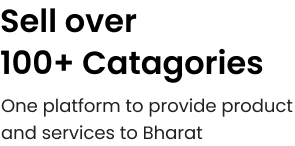
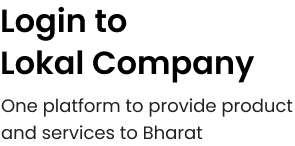
changed login and signup images and text

Changed region(s): [[0.0, 0.3288, 0.9153, 0.5753], [0.0, 0.0274, 0.4881, 0.3014]]

diff --git a/lib/screens/signUp/signup_screen.dart b/lib/screens/signUp/signup_screen.dart
@@ -1,9 +1,11 @@
 import 'dart:convert';
 
+import 'package:flutter/gestures.dart';
 import 'package:flutter/material.dart';
 import 'package:google_fonts/google_fonts.dart';
 import 'package:lokal/Widgets/UikTextField/UikTextField.dart';
 import 'package:lokal/pages/UikBottomNavigationBar.dart';
+import 'package:lokal/screens/Onboarding/NewOnboardingScreen.dart';
 import 'package:lokal/utils/network/ApiRepository.dart';
 import 'package:lokal/utils/network/ApiRequestBody.dart';
 import 'package:lokal/utils/storage/user_data_handler.dart';
@@ -63,9 +65,32 @@ class _SignupScreenState extends State<SignupScreen> {
                     top: 62.0,
                   ),
                   child: Image.asset(
-                    "assets/images/Login1.png",
+                    "assets/images/Signin1.png",
                     fit: BoxFit.cover,
                   ),
+                ),
+                Padding(
+                  padding: const EdgeInsets.only(left: 292),
+                  child: TextButton(
+                    onPressed: () {
+                      Navigator.push(
+                        context,
+                        MaterialPageRoute(
+                          builder: (context) => NewOnboardingScreen(),
+                        ),
+                      );
+                    },
+                    child: const Text(
+                      LOGIN,
+                      style: TextStyle(
+                          color: Color(0XFF3F51B5),
+                          fontSize: 14,
+                          fontWeight: FontWeight.w500),
+                    ),
+                  ),
+                ),
+                const SizedBox(
+                  height: DIMEN_35,
                 ),
                 Expanded(
                   child: Container(
@@ -226,6 +251,57 @@ class _SignupScreenState extends State<SignupScreen> {
 
                               setState(() {});
                             },
+                          ),
+                        ),
+                        const SizedBox(
+                          height: DIMEN_15,
+                        ),
+                        Padding(
+                          padding: const EdgeInsets.only(left: 10, right: 10),
+                          child: Text.rich(
+                            TextSpan(
+                              children: [
+                                TextSpan(
+                                  text: "By continuing I agree with ",
+                                  style: TextStyle(
+                                    color: Color(0xFF9E9E9E),
+                                  ),
+                                ),
+                                TextSpan(
+                                  text: "Lokal’s Privacy Policy",
+                                  style: TextStyle(
+                                    color:
+                                        Colors.black, // Make the link text blue
+                                    decoration: TextDecoration
+                                        .underline, // Add underline to the link text
+                                  ),
+                                  recognizer: TapGestureRecognizer()
+                                    ..onTap = () {
+                                      UiUtils.launchURL(PRIVACY_POLICY_URL);
+                                    },
+                                ),
+                                TextSpan(
+                                  text: " and ",
+                                  style: TextStyle(
+                                    color: Color(0xFF9E9E9E),
+                                  ),
+                                ),
+                                TextSpan(
+                                  text: "Terms of Use",
+                                  style: TextStyle(
+                                    color:
+                                        Colors.black, // Make the link text blue
+                                    decoration: TextDecoration
+                                        .underline, // Add underline to the link text
+                                  ),
+                                  recognizer: TapGestureRecognizer()
+                                    ..onTap = () {
+                                      UiUtils.launchURL(
+                                          TERMS_AND_CONDITIONS_URL);
+                                    },
+                                ),
+                              ],
+                            ),
                           ),
                         ),
                       ],

diff --git a/lib/screens/Onboarding/NewOnboardingScreen.dart b/lib/screens/Onboarding/NewOnboardingScreen.dart
@@ -96,8 +96,7 @@ class _NewOnboardingScreenState extends State<NewOnboardingScreen>
                       Navigator.push(
                         context,
                         MaterialPageRoute(
-                          builder: (context) =>
-                              SignupScreen(), 
+                          builder: (context) => SignupScreen(),
                         ),
                       );
                     },
@@ -191,7 +190,7 @@ class _NewOnboardingScreenState extends State<NewOnboardingScreen>
                         ),
                         Container(
                           margin: const EdgeInsets.only(
-                            left: DIMEN_16,
+                            left: DIMEN_14,
                           ),
                           child: UikButton(
                             text: LOGIN,
@@ -265,7 +264,51 @@ class _NewOnboardingScreenState extends State<NewOnboardingScreen>
                             ),
                           ),
                         ),
-                      ],
+                        Padding(
+                        padding: const EdgeInsets.only(left: 10, right: 10),
+                        child: Text.rich(
+                          TextSpan(
+                            children: [
+                              TextSpan(
+                                text: "By continuing I agree with ",
+                                style: TextStyle(
+                                  color: Color(0xFF9E9E9E),
+                                ),
+                              ),
+                              TextSpan(
+                                text: "Lokal’s Privacy Policy",
+                                style: TextStyle(
+                                  color: Colors.black, // Make the link text blue
+                                  decoration: TextDecoration
+                                      .underline, // Add underline to the link text
+                                ),
+                                recognizer: TapGestureRecognizer()
+                                  ..onTap = () {
+                                    UiUtils.launchURL(PRIVACY_POLICY_URL);
+                                  },
+                              ),
+                              TextSpan(
+                                text: " and ",
+                                style: TextStyle(
+                                  color: Color(0xFF9E9E9E),
+                                ),
+                              ),
+                              TextSpan(
+                                text: "Terms of Use",
+                                style: TextStyle(
+                                  color: Colors.black, // Make the link text blue
+                                  decoration: TextDecoration
+                                      .underline, // Add underline to the link text
+                                ),
+                                recognizer: TapGestureRecognizer()
+                                  ..onTap = () {
+                                    UiUtils.launchURL(TERMS_AND_CONDITIONS_URL);
+                                  },
+                              ),
+                            ],
+                          ),
+                        ),
+                      ),],
                     ),
                   ),
                 ),

diff --git a/lib/screens/Onboarding/OnboardingScreen.dart b/lib/screens/Onboarding/OnboardingScreen.dart
@@ -88,13 +88,13 @@ class _OnboardingSliderState extends State<OnboardingSlider> {
             child: Column(
               crossAxisAlignment: CrossAxisAlignment.start,
               children: [
-                if (widget.currentPage == 1) // Display only for the 2nd image
+                if (widget.currentPage == 1 || widget.currentPage == 2)
                   Image.asset(
                     widget.imagePath,
                     fit: BoxFit.cover,
                     width: double.infinity,
                   ),
-                if (widget.currentPage != 1) // Display for other images
+                if (widget.currentPage == 0) // Display for other images
                   Padding(
                     padding: const EdgeInsets.only(top: 60.0),
                     child: Image.asset(
@@ -119,6 +119,10 @@ class _OnboardingSliderState extends State<OnboardingSlider> {
                     ),
                   ),
                 ),
+                if (widget.currentPage == 1)
+                  const SizedBox(
+                    height: DIMEN_64,
+                  ),
                 const SizedBox(
                   height: DIMEN_32,
                 ),
